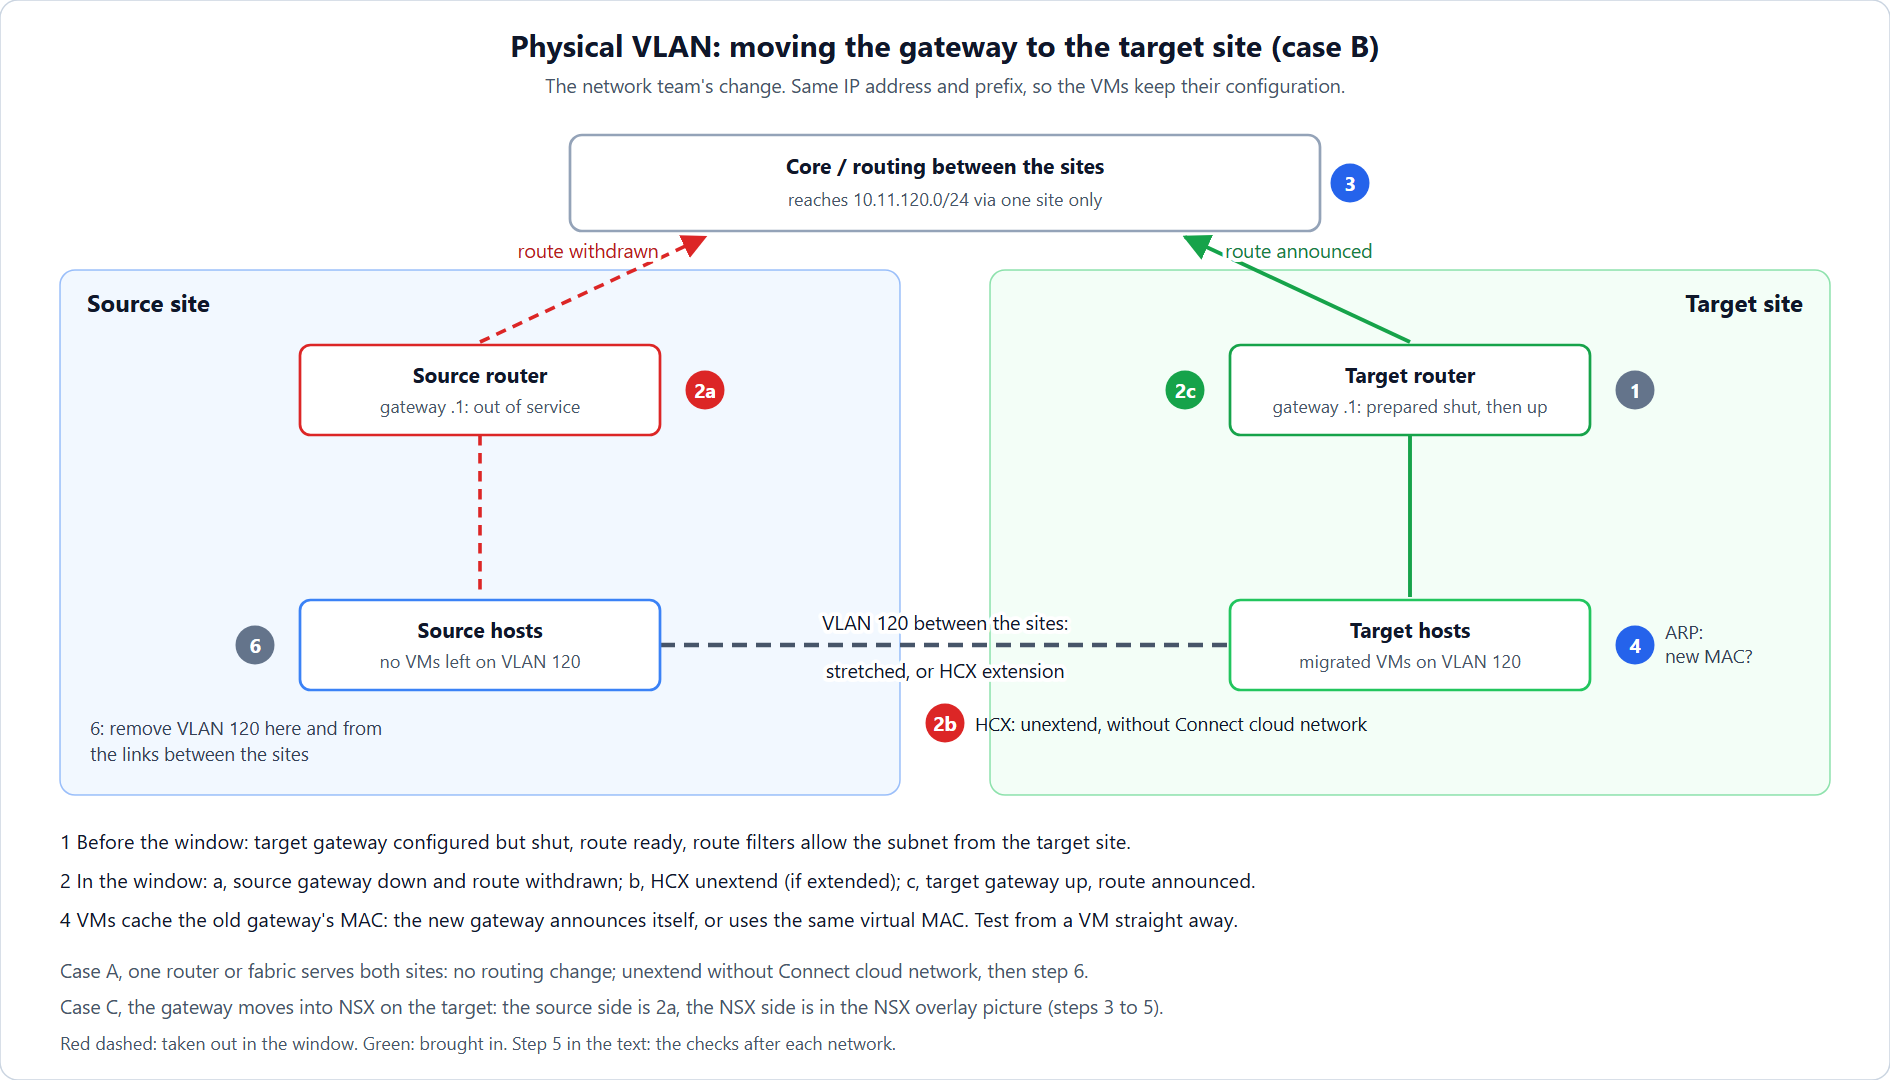
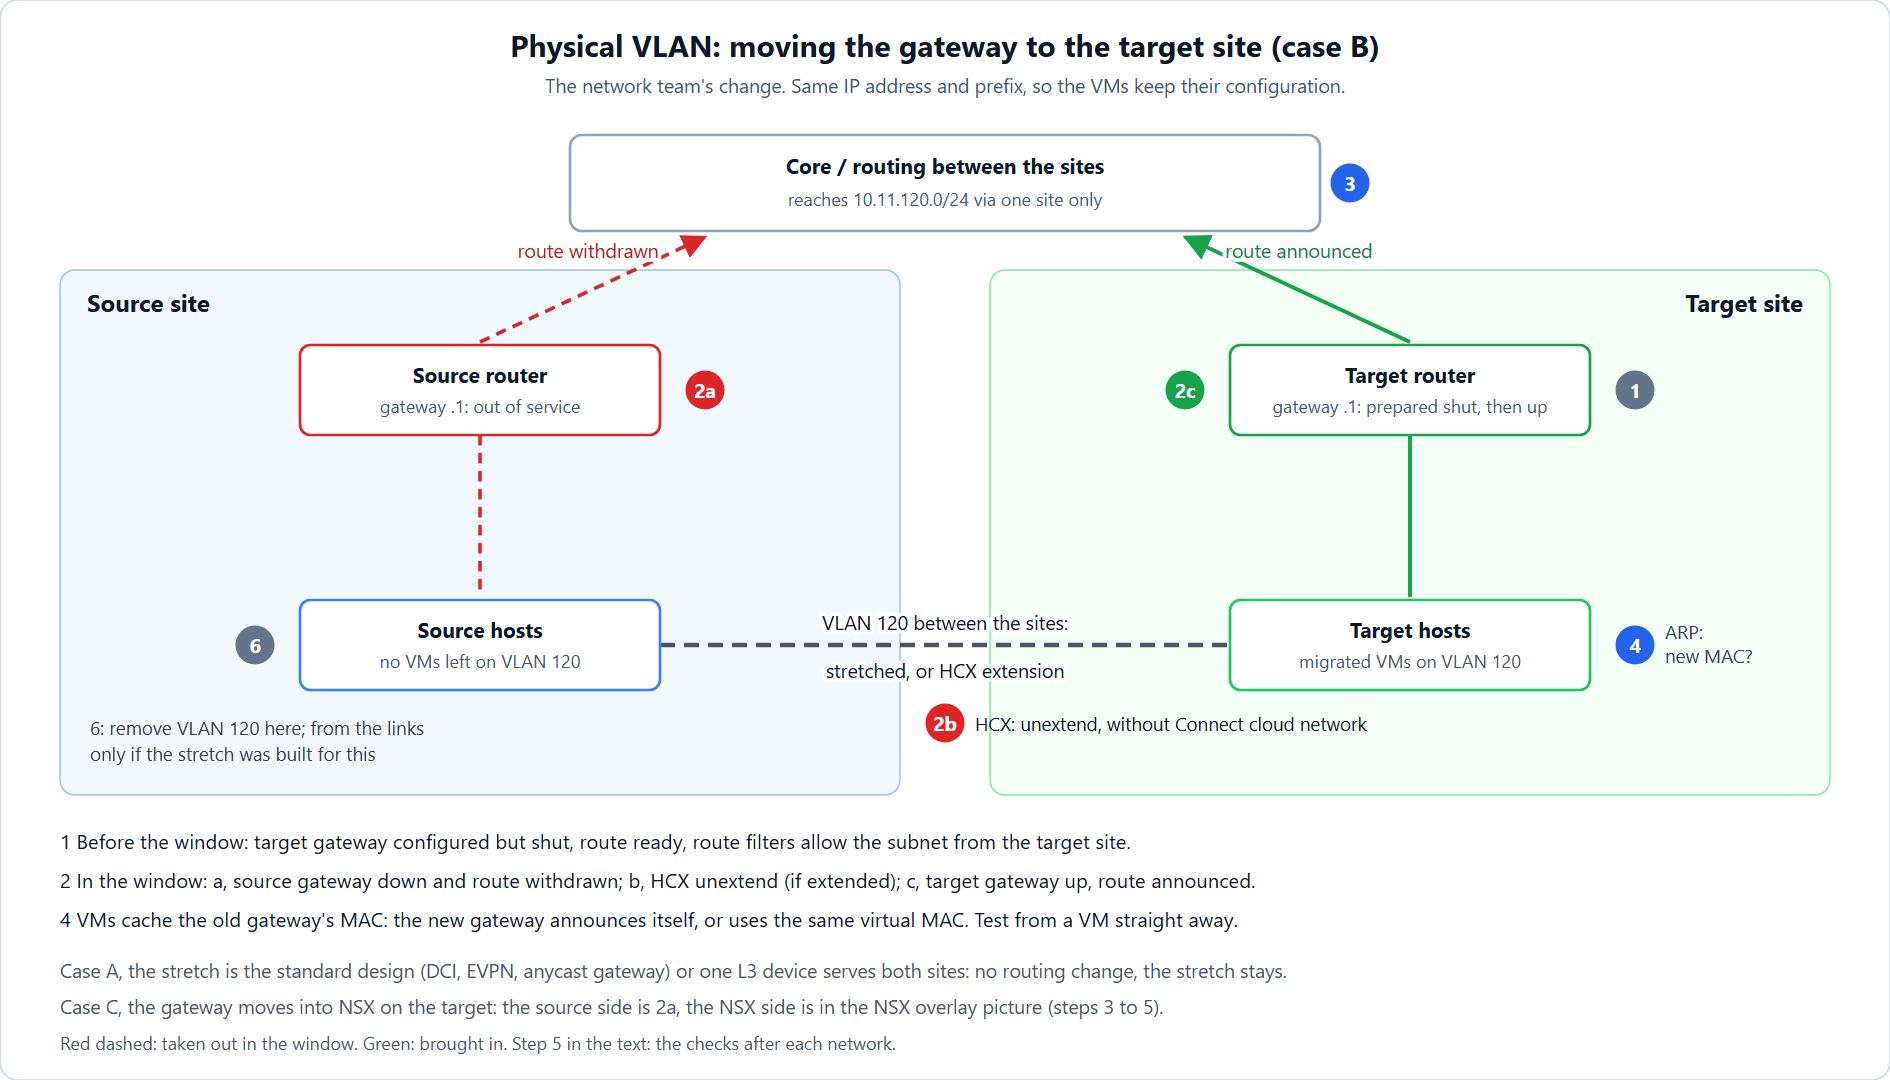
docs/35 case A: a permanent L2 stretch keeps the stretch, no gateway move (#127)

Changed region(s): [[0.0624, 0.8861, 0.6868, 0.9167], [0.0312, 0.6722, 0.2185, 0.7028]]

diff --git a/docs/35-cutover-and-clean-up.md b/docs/35-cutover-and-clean-up.md
@@ -98,7 +98,7 @@ then follow the matching row:
 
 | Gateway now (source) | Gateway after (target) | What the cutover is | Where |
 | --- | --- | --- | --- |
-| Physical router, VLAN | The same physical router or fabric, serving both sites | No gateway move. Remove the VLAN from the source hosts and trunks | [Physical VLANs](#networks-on-physical-vlans), case A |
+| Physical, VLAN, with an L2 stretch between the sites as the standard design (DCI, EVPN fabric, anycast gateway), or one L3 device for both sites | Unchanged | No gateway move and no routing change. The stretch stays; only the source hosts leave the VLAN | [Physical VLANs](#networks-on-physical-vlans), case A |
 | Physical router at the source site, VLAN | Physical router at the target site, VLAN (VDS port group or NSX VLAN segment) | The network team moves the gateway and its route; with HCX first unextend, without ticking *Connect cloud network* | [Physical VLANs](#networks-on-physical-vlans), case B |
 | Physical router, VLAN | NSX Tier-1 on the target (overlay segment or VPC subnet) | The network team takes the old gateway down, NSX on the target takes over: with HCX the unextend with *Connect cloud network*; without HCX the VMs first move to the NSX segment | [Physical VLANs](#networks-on-physical-vlans), case C |
 | NSX Tier-1, overlay | NSX Tier-1 on the target | Withdraw the subnet from the old NSX, advertise it from the new one | [NSX overlay](#networks-on-nsx-overlay) |
@@ -208,19 +208,41 @@ the gateway stayed where it was during the waves (question 2 in
 [docs/29](29-side-by-side-migration.md#2-do-the-vms-keep-their-ip-addresses)).
 With HCX, the VLAN on the source was extended to the target by HCX.
 
-![Moving a physical VLAN gateway from the source site to the target site. Step 1, before the window, the target router has the gateway configured but shut, with the same IP address and prefix, and the route ready; route filters allow the subnet from the target site. Step 2a, the source gateway goes out of service and its route is withdrawn. Step 2b, with HCX, unextend without Connect cloud network. Step 2c, the target gateway comes up and its route is announced. Step 3, the core reaches the subnet via the target site only. Step 4, the VMs cache the old gateway's MAC address, so the new gateway announces itself or uses the same virtual MAC. Step 6, the VLAN is removed from the source hosts and the links between the sites. Case A needs no routing change; for case C the NSX side is in the overlay picture.](images/cutover/vlan-cutover.png)
+![Moving a physical VLAN gateway from the source site to the target site. Step 1, before the window, the target router has the gateway configured but shut, with the same IP address and prefix, and the route ready; route filters allow the subnet from the target site. Step 2a, the source gateway goes out of service and its route is withdrawn. Step 2b, with HCX, unextend without Connect cloud network. Step 2c, the target gateway comes up and its route is announced. Step 3, the core reaches the subnet via the target site only. Step 4, the VMs cache the old gateway's MAC address, so the new gateway announces itself or uses the same virtual MAC. Step 6, the VLAN is removed from the source hosts, and from the links between the sites only if that stretch was built for the migration. Case A, a stretch that is the standard design, needs no routing change and keeps the stretch; for case C the NSX side is in the overlay picture.](images/cutover/vlan-cutover.png)
 
 ### Case A: the gateway doesn't move
 
-The same router or fabric serves both sites, so the VMs on the target
-already use it. There is no routing change:
+The VLAN and its gateway already serve both sites, so the VMs on the
+target use the same gateway as before. Two common designs:
+
+- **The L2 stretch is the standard design** of the data centers: a data
+  center interconnect, or an EVPN/VXLAN fabric that carries the VLAN to
+  both sites, often with an anycast gateway (the same gateway IP and MAC
+  address on every site).
+- **One L3 device serves both sites**, reached over the stretched VLAN.
+
+There is no gateway move and no routing change. The cutover is:
 
 1. With HCX: **Unextend**, *without* **Connect cloud network**: the
    target side reaches the gateway over the physical VLAN, not through a
-   Tier-1.
+   Tier-1. If the VLAN was stretched by the fabric from the start, HCX
+   Network Extension wasn't needed for it: the Mobility Group maps the VMs
+   to the target port group of the same VLAN. Don't extend such a VLAN
+   with HCX as well: *"Network extension does not detect or mitigate
+   loops"*
+   ([Restrictions and Limitations for Network Extension](https://techdocs.broadcom.com/us/en/vmware-cis/vcf/vcf-9-0-and-later/9-1/workload-mobility/vmware-hcx-user-guide-vcf-9-0/extending-networks-with-vmware-hcx/about-vmware-hcx-network-extension/restrictions-and-limitations-for-network-extension.html)).
 2. Run [the checks](#after-each-network).
-3. Remove the VLAN from the source hosts' uplinks and from the trunks to
-   the source site, once nothing on the source uses it any more.
+3. Remove the VLAN from the **source hosts'** uplinks once nothing on the
+   source uses it any more, or simply when the source hosts are retired.
+   **The stretch between the sites stays**: it's part of the design, not
+   of the migration.
+
+**One design check for the network team**, not part of the cutover:
+where is the gateway physically? With an anycast gateway every site
+routes locally. With a gateway on the source site only, all routed
+traffic of the migrated VMs crosses the interconnect to the source site
+and back. That works, but it should be a decision, especially once the
+source site holds nothing else.
 
 ### Case B: the gateway moves to a router at the target site
 
@@ -244,8 +266,10 @@ already use it. There is no routing change:
    network team how the new gateway announces itself (or that it uses the
    same virtual MAC), and test it from a VM straight after the switch.
 5. Run [the checks](#after-each-network).
-6. Remove the VLAN from the links between the sites and from the source
-   hosts, so that it doesn't stay stretched by accident.
+6. Remove the VLAN from the source hosts. If the stretch between the
+   sites was built for the migration, remove it from the links between the
+   sites too, so that it doesn't stay stretched by accident; if the
+   stretch is the standard design, it stays (case A).
 
 ### Case C: the gateway moves into NSX on the target
 
@@ -501,8 +525,9 @@ resort.
 
 - [ ] Every migrated network has its gateway on the target, and its checks
       passed.
-- [ ] No network is extended or stretched between the sites any more,
-      and no Edge bridge from the migration is left.
+- [ ] No network is extended or stretched between the sites any more
+      for the migration (a stretch that is the data centers' standard
+      design stays), and no Edge bridge from the migration is left.
 - [ ] Every migrated subnet is advertised by the new NSX (or the new
       gateway) only; the old Tier-0s no longer advertise it.
 - [ ] Nothing points at the source: backup, DR, monitoring, automation,

diff --git a/docs/31-carry-over-networks-and-firewall.md b/docs/31-carry-over-networks-and-firewall.md
@@ -61,7 +61,12 @@ decides what you build here:
 - **Kept, without HCX:** the source VLANs must be trunked to the target
   hosts' uplinks, and you recreate the port groups or VLAN segments with
   the **same VLAN IDs**. The gateway stays on the physical network or the
-  source until the cutover. An **NSX overlay** segment on the source isn't
+  source until the cutover. Where the L2 stretch between the sites is the
+  standard design (a data center interconnect or an EVPN fabric), the
+  VLANs already reach the target side; check that they're on the target
+  hosts' uplinks, and note in the mapping table that the gateway doesn't
+  move ([docs/35, case A](35-cutover-and-clean-up.md#case-a-the-gateway-doesnt-move)).
+  An **NSX overlay** segment on the source isn't
   a VLAN you can trunk: its subnet lives on a source Tier-1, and the two
   NSX environments don't share layer 2. Recreate it on the target without
   a gateway (step 3), and choose per subnet between moving all its VMs in

diff --git a/CHANGELOG.md b/CHANGELOG.md
@@ -1,5 +1,17 @@
 # Changelog
 
+## v2.6.9 – 2026-11-13
+- `docs/35` case A (#127, Paul): an L2 stretch between the sites that is
+  the data centers' standard design (DCI, EVPN/VXLAN fabric, anycast
+  gateway) needs no gateway move and no routing change; the stretch stays,
+  only the source hosts leave the VLAN. HCX Network Extension isn't needed
+  for such a VLAN, and extending it anyway risks a loop (*"does not detect
+  or mitigate loops"*). A design check on where the gateway physically is
+  and the traffic path. Case B step 6, the closing checklist and the
+  `vlan-cutover` diagram now remove the stretch only when it was built for
+  the migration. `docs/29` question 2 and `docs/31` *Kept, without HCX*
+  mention the standard stretch.
+
 ## v2.6.8 – 2026-11-13
 - **New `docs/35`: Cutting over and cleaning up** (#124), the last page of
   the set in #105. Phase 6 in order: per network (what else still uses it:

diff --git a/docs/29-side-by-side-migration.md b/docs/29-side-by-side-migration.md
@@ -141,7 +141,10 @@ What the sources say:
 - **Yes, without HCX:** the VLANs of the source must also be present on
   the target hosts' uplinks, and the default gateway stays where it is
   until the cutover. That's a change on the physical network, so plan it
-  with the network team. For **NSX overlay** segments that doesn't work:
+  with the network team, unless the L2 stretch between the sites is
+  already the standard design (a data center interconnect or an EVPN
+  fabric): then the VLANs reach the target hosts already, and the gateway
+  may never have to move. For **NSX overlay** segments that doesn't work:
   their subnet lives on a source Tier-1 and is advertised by the source
   NSX. Decide per overlay subnet: all its VMs move in one window together
   with the cutover, or an NSX Edge bridge joins the old and new segment
